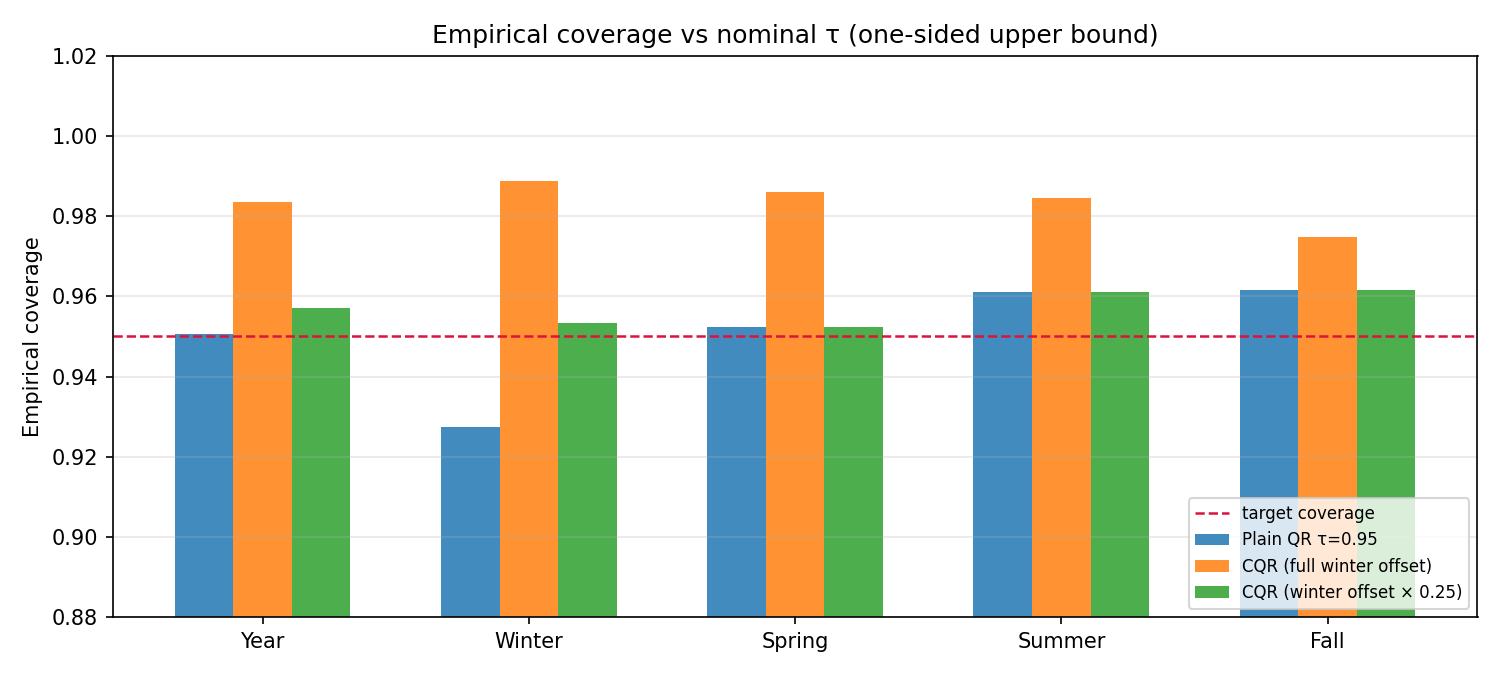
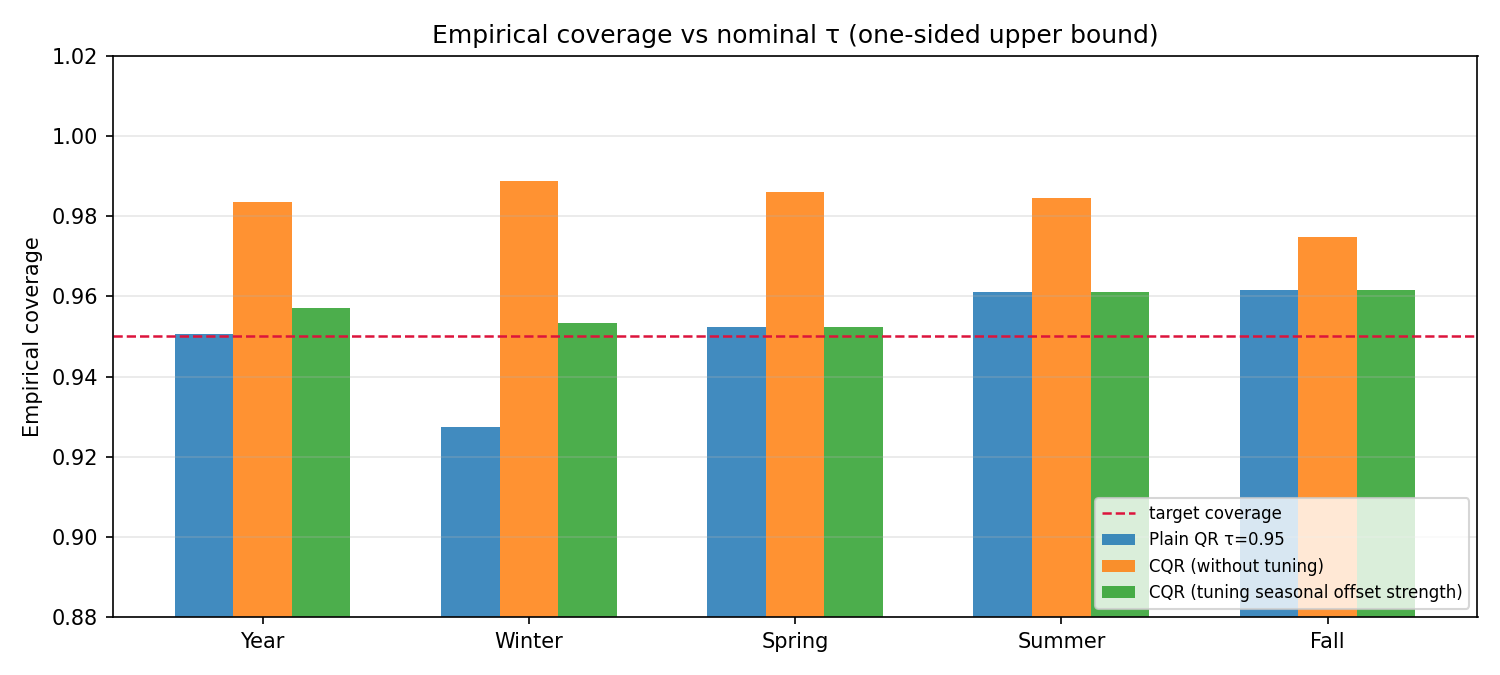
update label names

Changed region(s): [[0.7053, 0.7156, 0.9813, 0.9022]]

diff --git a/plot_progress_presentation.py b/plot_progress_presentation.py
@@ -36,8 +36,8 @@ from run_experiment import (
 
 DEFAULT_RUNS = {
     "qr_lr5.0": "Plain QR τ=0.95",
-    "cqr_lr5.0_og": "CQR (full winter offset)",
-    "winter0.25": "CQR (winter offset × 0.25)",
+    "cqr_lr5.0_og": "CQR (without tuning)",
+    "winter0.25": "CQR (tuning seasonal offset strength)",
 }
 
 DEFAULT_STATIONS = ["Center_City"]
@@ -685,6 +685,43 @@ def plot_cqr_runs_same_week(
     return ax
 
 
+def plot_qr_vs_cqr_timeseries(
+    qr_aligned: pd.DataFrame,
+    cqr_aligned: pd.DataFrame,
+    *,
+    resample: str = "7D",
+    qr_label: str = "QR (plain, tau=0.95)",
+    cqr_label: str = "CQR (tuning seasonal offset strength)",
+    title: str = "",
+    ax: Optional[plt.Axes] = None,
+) -> plt.Axes:
+    """
+    Actual load plus plain QR bound vs CQR-adjusted bound (e.g. winter0.25).
+    Resampling keeps a full test-year view readable on slides.
+    """
+    if ax is None:
+        _, ax = plt.subplots(figsize=(12, 4.5))
+    m = pd.DataFrame(
+        {
+            "actual": qr_aligned["load_mw"],
+            "qr": qr_aligned["pred"],
+            "cqr": cqr_aligned["pred"].reindex(qr_aligned.index),
+        }
+    ).dropna()
+    w = m.resample(resample).mean()
+    ax.plot(w.index, w["actual"], color="black", lw=1.65, label="Actual load")
+    ax.plot(w.index, w["qr"], color="steelblue", lw=1.35, label=qr_label)
+    ax.plot(w.index, w["cqr"], color="darkorange", lw=1.35, label=cqr_label)
+    ax.set_ylabel("MW")
+    ax.set_title(
+        title
+        or f"Plain QR vs CQR winter0.25 — predicted bounds vs actual ({resample} mean)"
+    )
+    ax.legend(loc="upper left", fontsize=9)
+    ax.grid(alpha=0.25)
+    return ax
+
+
 def build_all_figures(
     out_dir: Path,
     results_dir: Path,
@@ -796,6 +833,23 @@ def build_all_figures(
         )
         fig.tight_layout()
         fig.savefig(out_dir / "cqr_pred_comparison_7d.png", dpi=150)
+        plt.close(fig)
+
+    # 5b) Plain QR vs CQR winter0.25 — full test year (7-day mean)
+    w25_csv = results_dir / "winter0.25_predictions.csv"
+    if w25_csv.exists():
+        w25_df = aligned_for("winter0.25")
+        fig, ax = plt.subplots(figsize=(12, 4.5))
+        plot_qr_vs_cqr_timeseries(
+            qr_df,
+            w25_df,
+            resample="7D",
+            title="Plain QR vs CQR (winter0.25): bounds vs actual, 2023 test (7-day mean)",
+            ax=ax,
+        )
+        fig.autofmt_xdate()
+        fig.tight_layout()
+        fig.savefig(out_dir / "qr_vs_cqr_winter025_timeseries.png", dpi=150)
         plt.close(fig)
 
     # 6) Holiday sharpness (QR), separate file
